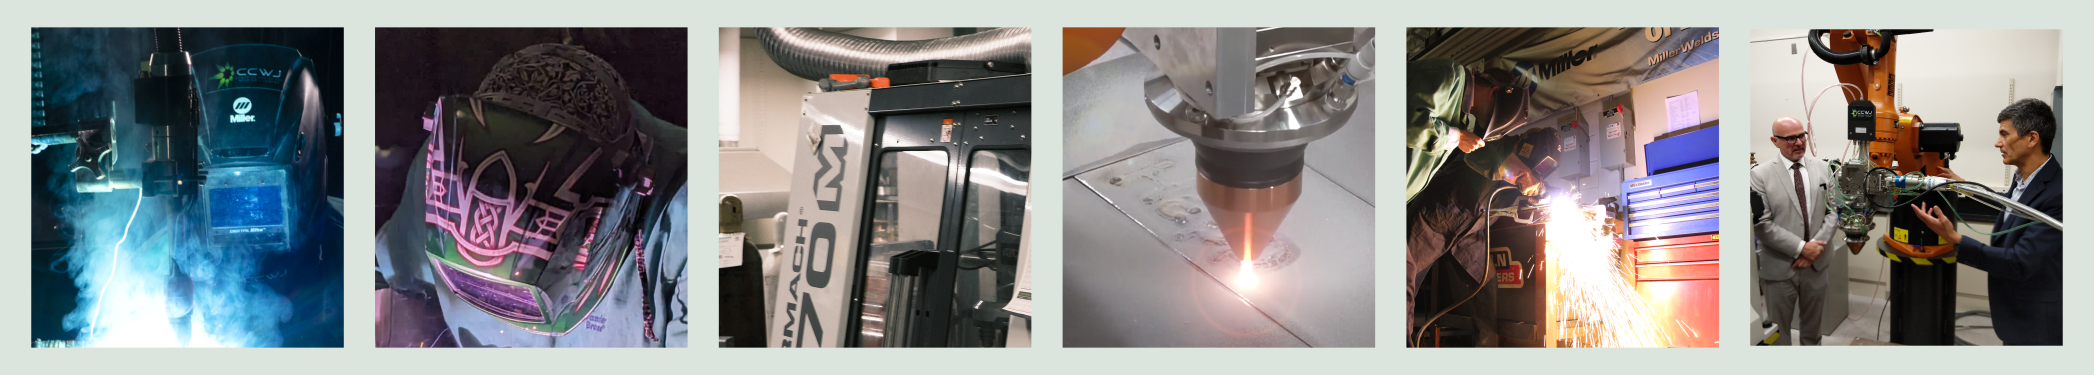
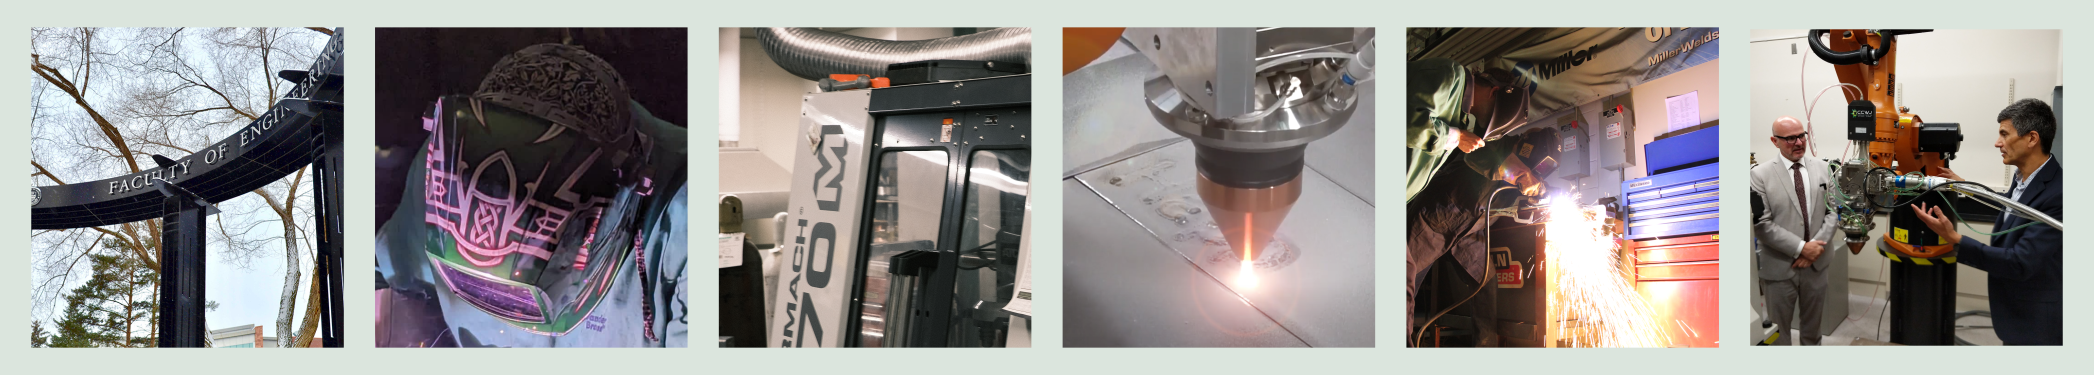
remove fixed width images for mobile compatibilitu

Changed region(s): [[0.0, 0.0587, 0.1862, 0.9387]]

diff --git a/custom.scss b/custom.scss
@@ -29,6 +29,7 @@ $font-family-sans-serif: "Roboto", system-ui, -apple-system, "Segoe UI", "Helvet
   color: $nurse-white !important;
   font-size: 28pt !important;
   text-shadow: 2px 2px 4px rgb(0, 0, 0); /* Horizontal offset, vertical offset, blur radius, shadow color */
+  text-align: center;
 }
 
 .quarto-title {
